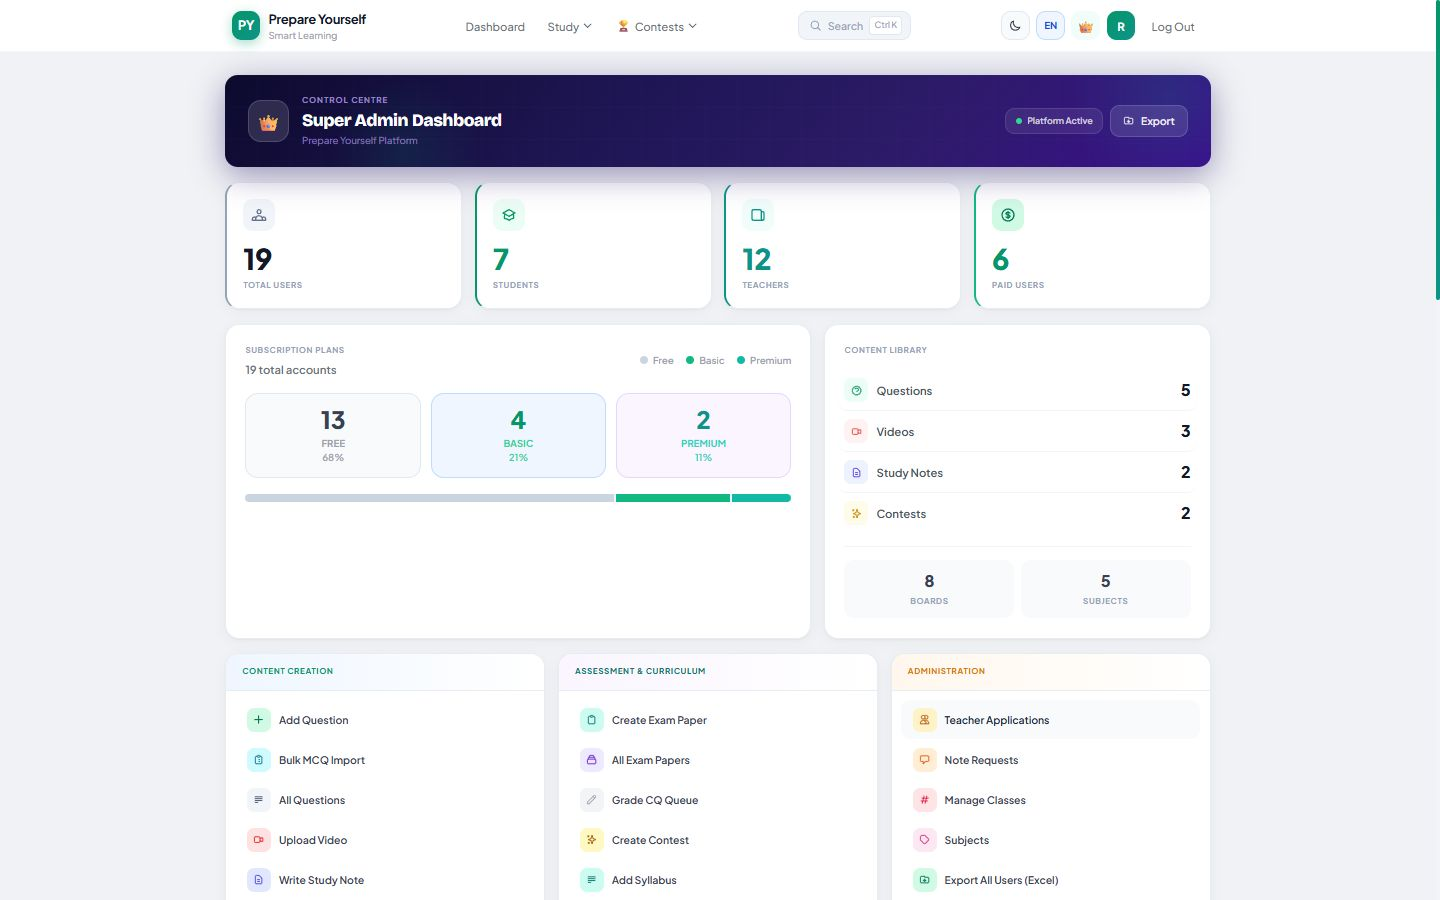
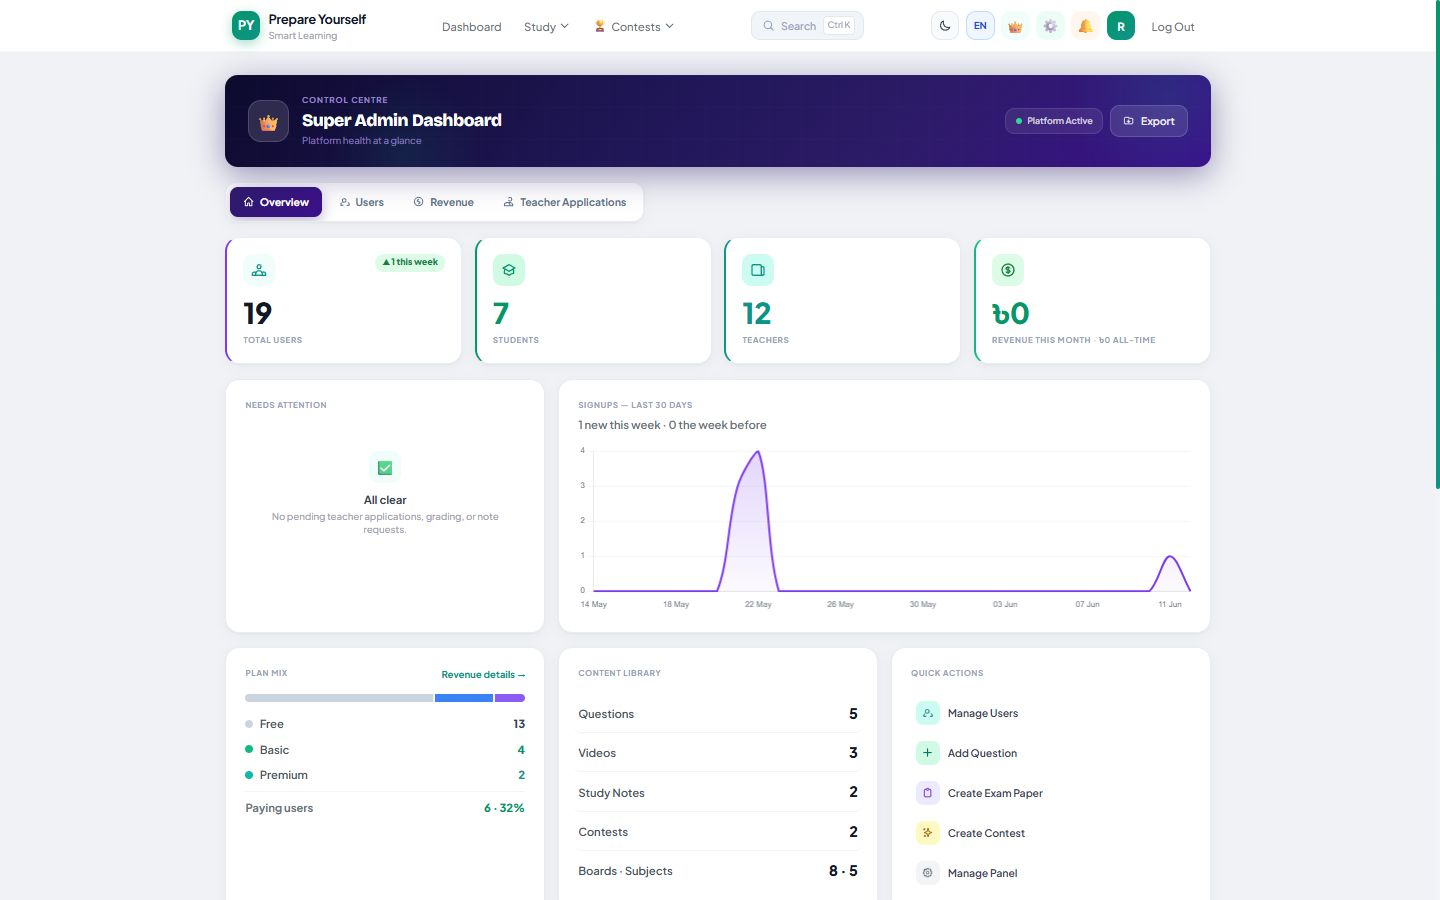
README: refresh superadmin screenshots for the restructured section
superadmin.jpeg retaken as the new Overview (KPIs, attention card, signups
trend, section tabs) and a new gallery row added for the dedicated pages:
User Management in dark mode and the Revenue analytics page. 12 shots total.

diff --git a/README.md b/README.md
@@ -48,7 +48,11 @@ Built by a 4-person agile team over one semester using Scrum methodology.
 
 | Teacher Dashboard (dark) | Super Admin Control Centre |
 |:---:|:---:|
-| ![Teacher dashboard in dark mode](docs/screenshots/teacher-dashboard-dark.jpeg) | ![Super admin dashboard with revenue and user management](docs/screenshots/superadmin.jpeg) |
+| ![Teacher dashboard in dark mode](docs/screenshots/teacher-dashboard-dark.jpeg) | ![Super admin overview with KPIs, attention card and signups trend](docs/screenshots/superadmin.jpeg) |
+
+| Super Admin · User Management (dark) | Super Admin · Revenue |
+|:---:|:---:|
+| ![User management with inline role and plan editing](docs/screenshots/superadmin-users-dark.jpeg) | ![Revenue analytics with plan distribution and payment ledger](docs/screenshots/superadmin-revenue.jpeg) |
 
 | Manage Panel (dark) | Login |
 |:---:|:---:|
